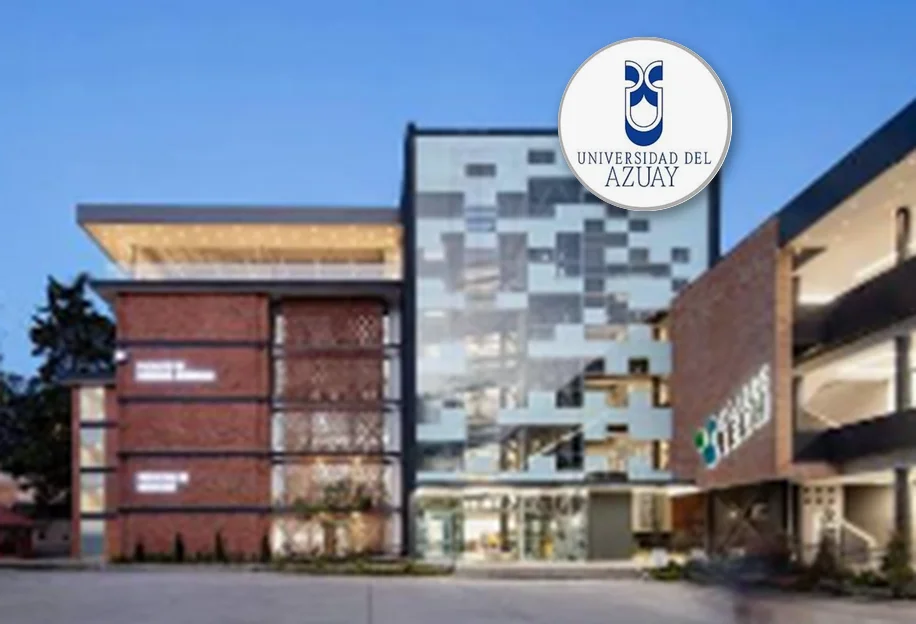
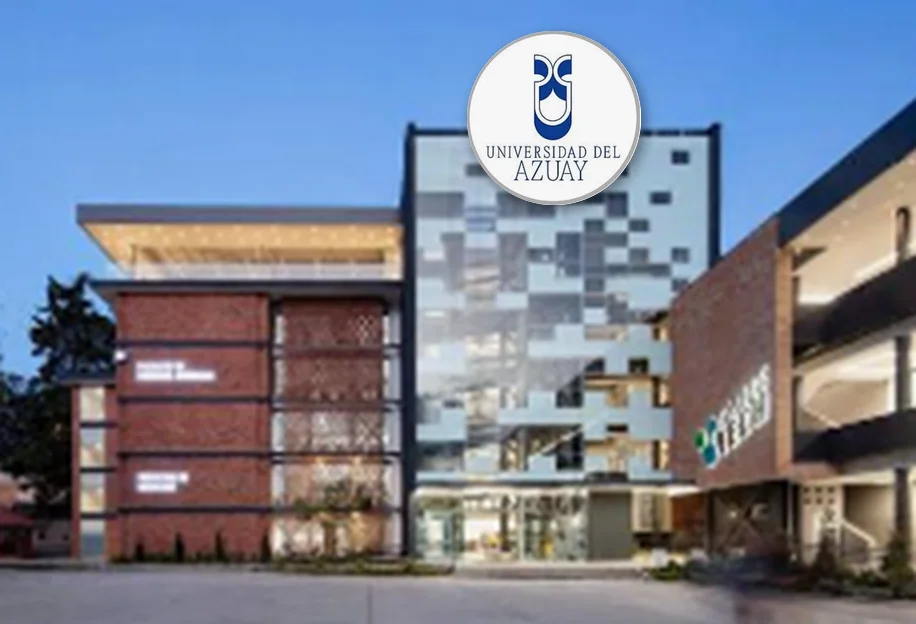
Logros: títulos del fundador y Maestría en Ingeniería Biomédica
- Tecnólogo Industrial en Electrónica, UDA (1998), con foto del título.
- Especialista en Ingeniería de Sistemas Internet y Móviles, UPM (2004),
  con foto del título.
- Enlace "Ver el título de Ingeniero Electrónico" en el logro UDA 2003.
- Maestría en Ingeniería Biomédica, UPS (2025–2026): módulos aprobados,
  etapa final de la titulación.
- Logo de la UDA más al centro de la foto para que no se recorte.

Changed region(s): [[0.4891, 0.0304, 0.8253, 0.3654]]

diff --git a/src/app/pages/logros/logros.data.ts b/src/app/pages/logros/logros.data.ts
@@ -59,6 +59,18 @@ export const LOGROS: Logro[] = [
     ajuste: 'contain'
   },
   {
+    id: 'maestria-ingenieria-biomedica-ups',
+    anio: 2026,
+    periodo: '2025 – 2026',
+    tipo: 'Formación',
+    titulo: 'Maestría en Ingeniería Biomédica',
+    subtitulo: 'Universidad Politécnica Salesiana · Cuenca',
+    descripcion:
+      'Nuestro fundador aprobó con éxito todos los módulos de la maestría en Ingeniería Biomédica (bioingeniería) ' +
+      'y está en la etapa final de su trabajo de titulación.',
+    icono: '🧬'
+  },
+  {
     id: 'ingeniatec-2016',
     anio: 2016,
     tipo: 'Reconocimiento',
@@ -96,6 +108,32 @@ export const LOGROS: Logro[] = [
     // Foto del campus con el logo de la UDA solo como identificación del lugar (no implica alianza con JPC).
     imagen: 'assets/imagenes/logros/universidad-del-azuay.webp',
     ajuste: 'cover',
+    icono: '🎓',
+    enlace: { texto: 'Ver el título de Ingeniero Electrónico', url: 'assets/imagenes/logros/titulo-ingeniero-electronico-uda-2003.webp' }
+  },
+  {
+    id: 'upm-especialista-2004',
+    anio: 2004,
+    tipo: 'Formación',
+    titulo: 'Especialista en Ingeniería de Sistemas Internet y Móviles',
+    subtitulo: 'Universidad Politécnica de Madrid · España · 2004',
+    descripcion:
+      'Título de especialización de posgrado (18,5 créditos) de la Universidad Politécnica de Madrid, ' +
+      'que sumó formación internacional en sistemas de internet y comunicaciones móviles.',
+    imagen: 'assets/imagenes/logros/titulo-especialista-upm-2004.webp',
+    ajuste: 'contain',
+    icono: '🎓'
+  },
+  {
+    id: 'uda-tecnologo-1998',
+    anio: 1998,
+    tipo: 'Formación',
+    titulo: 'Tecnólogo Industrial en Electrónica',
+    subtitulo: 'Universidad del Azuay · 1998',
+    descripcion:
+      'Primer título de nuestro fundador en electrónica: el inicio de su formación técnica en la Universidad del Azuay.',
+    imagen: 'assets/imagenes/logros/titulo-tecnologo-electronica-uda-1998.webp',
+    ajuste: 'contain',
     icono: '🎓'
   }
 ];
